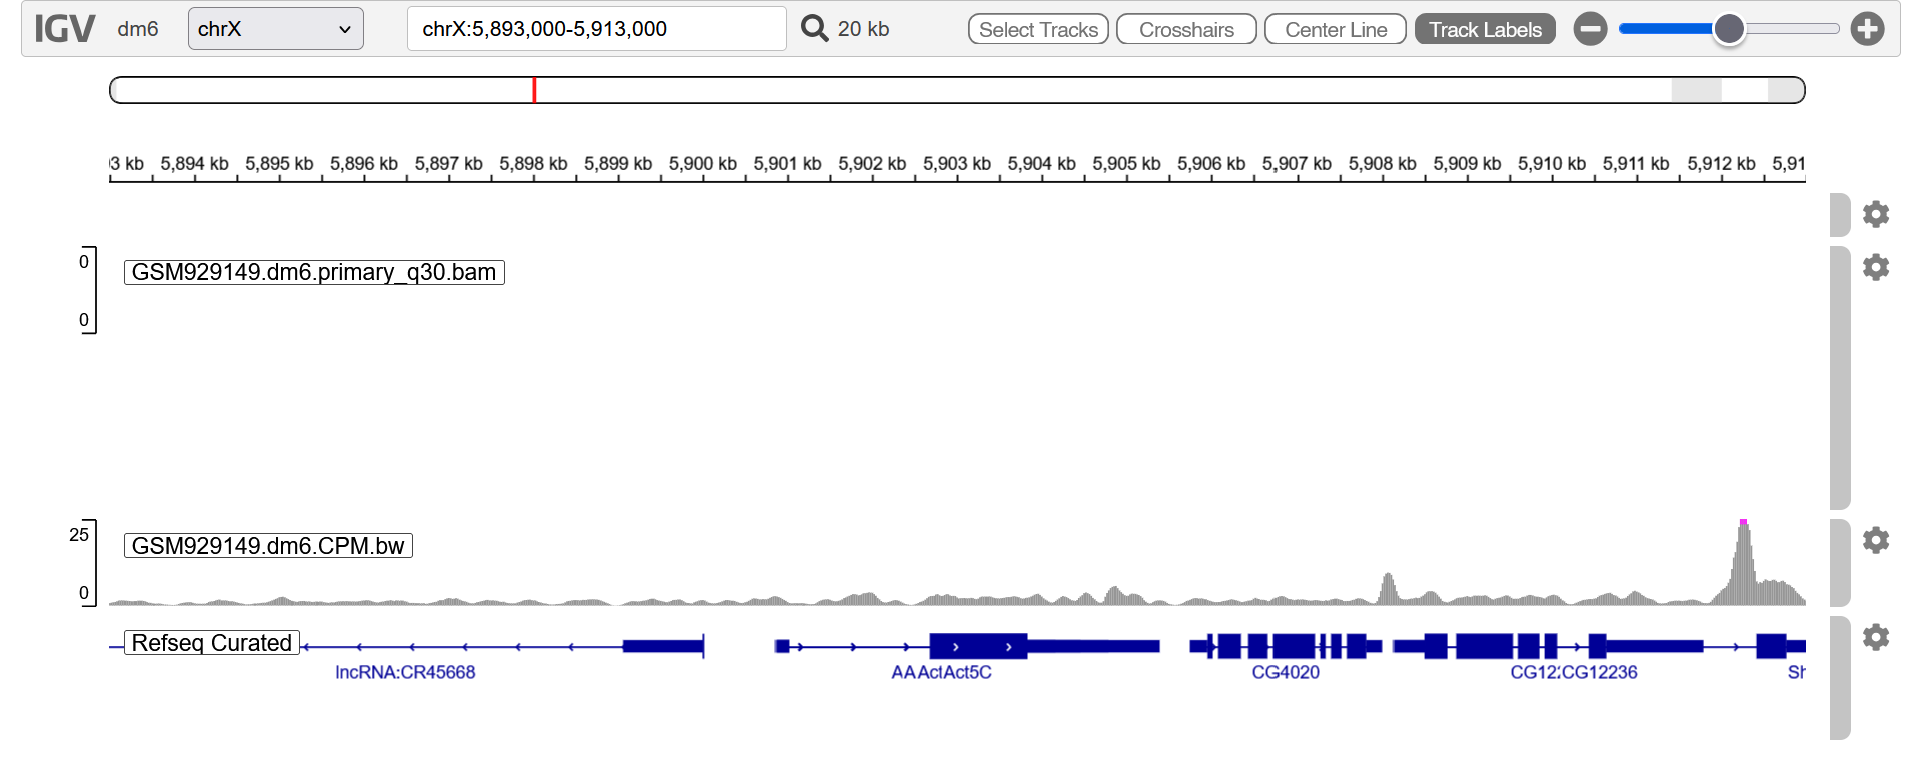
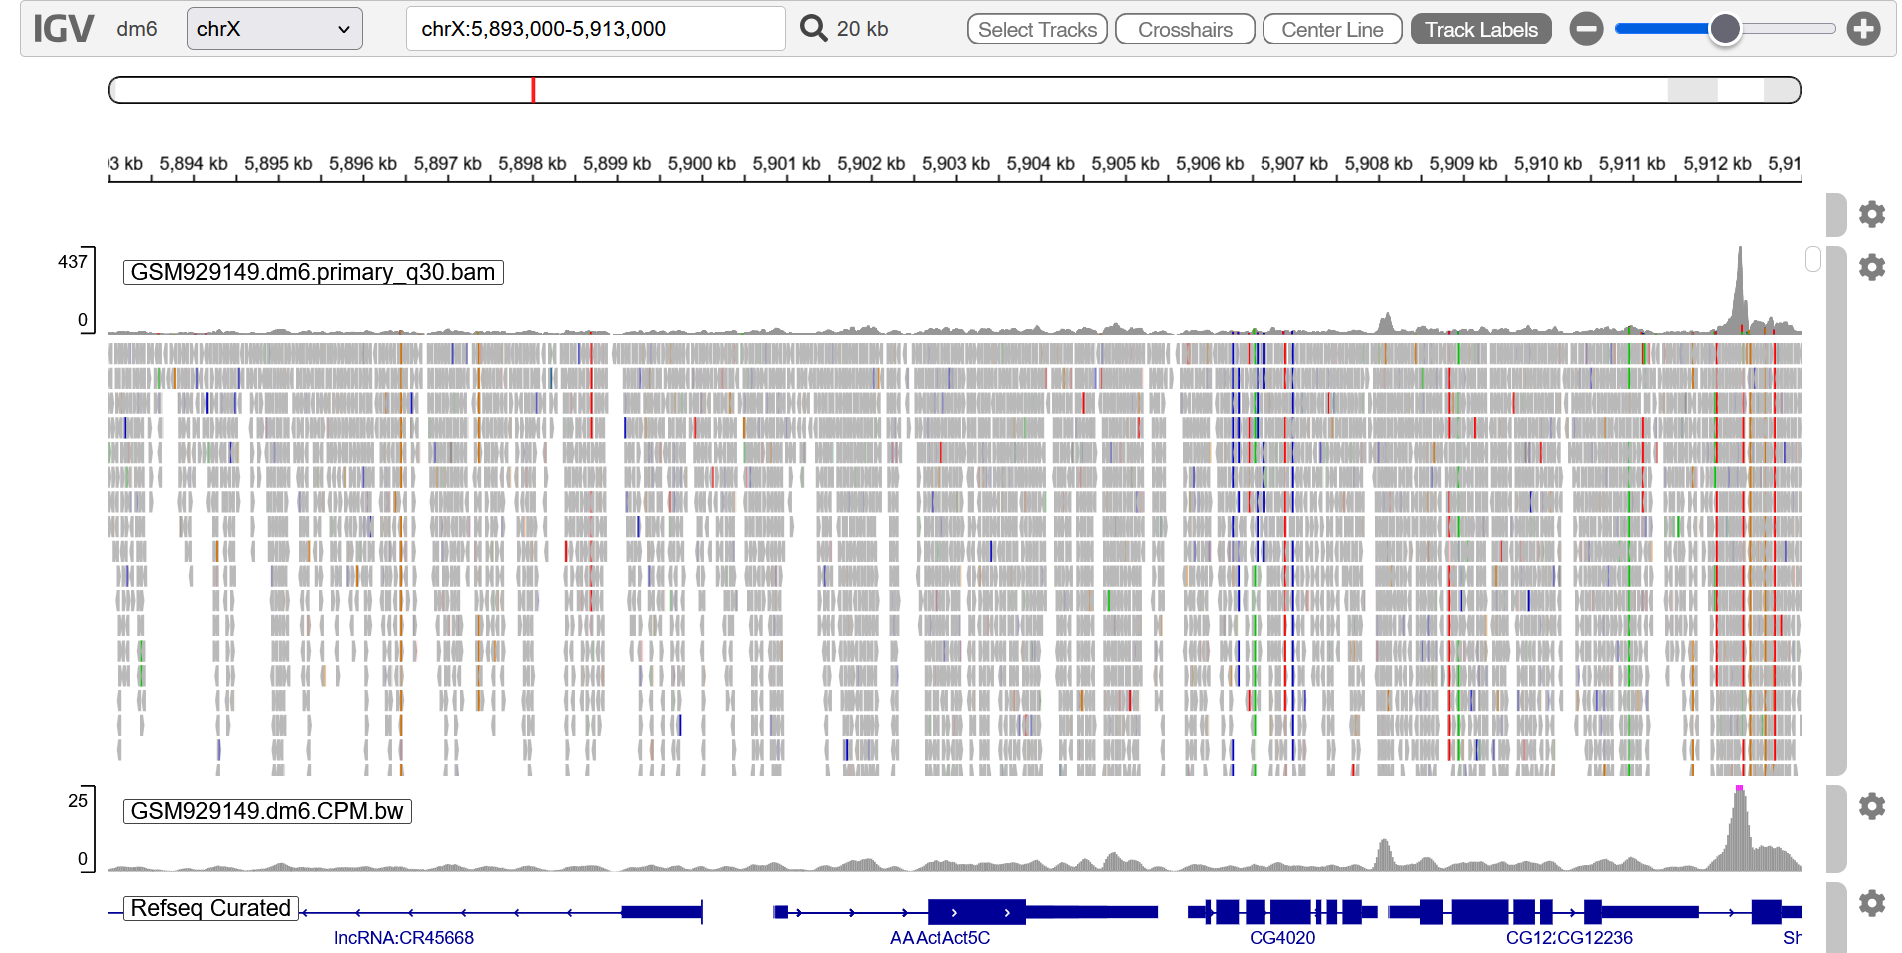
fix(task-01): recapture IGV figures with the BAM track loaded (N1)

diff --git a/scripts/05_annotate_igv_figures.py b/scripts/05_annotate_igv_figures.py
@@ -1,10 +1,10 @@
 #!/usr/bin/env python3
-"""Crop raw IGV-Web captures to a uniform viewport (1893x766) and prepend a 56 px metadata banner."""
+"""Crop raw IGV-Web captures to a uniform viewport (1890x953) and prepend a 56 px metadata banner."""
 from pathlib import Path
 from PIL import Image, ImageDraw, ImageFont
 
-TARGET_W = 1893
-TARGET_H = 766
+TARGET_W = 1890
+TARGET_H = 953
 
 FIGURES = [
     (
